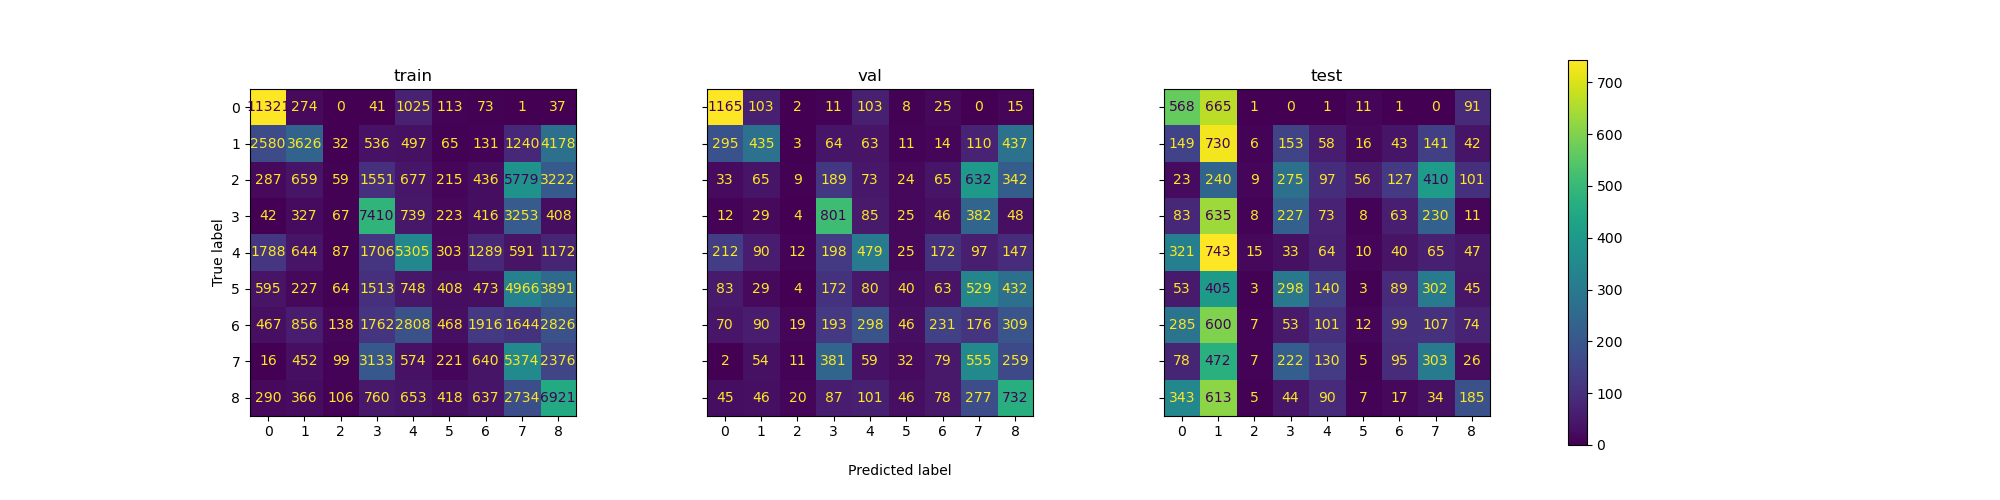
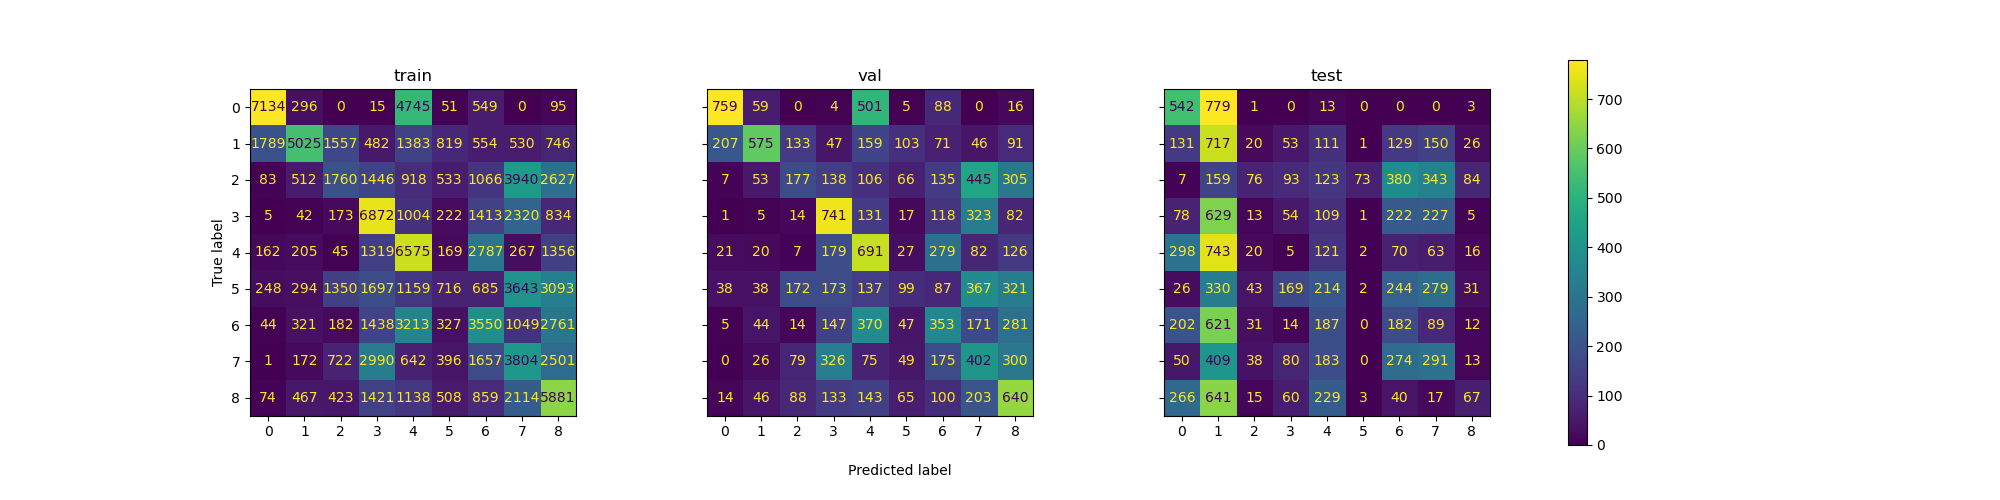
Further tune the model results. (still in progress)

diff --git a/utils.py b/utils.py
@@ -35,6 +35,7 @@ from B.models.KMeans import KMeans as B_KMeans
 import random
 from sklearn.decomposition import PCA
 from tensorboardX import SummaryWriter
+from sklearn.utils import shuffle
 
 
 def load_data(task, path, method, batch_size=None):
@@ -82,6 +83,11 @@ def load_data(task, path, method, batch_size=None):
             # sample_index_test = random.sample([i for i in range(Xtest.shape[0])]) 
             # Xtest = Xtest[sample_index_test,:]
             # ytest = np.array(ytest)[sample_index_test].tolist()
+
+            # try whether shuffle can improve accuracy
+            Xtrain, ytrain = shuffle(Xtrain,ytrain,random_state=42)
+            Xval, yval = shuffle(Xval, yval,random_state=42)
+            Xtest, ytest= shuffle(Xtest, ytest,random_state=42)
 
             # too much features, use PCA to reduce dimensionality
             pca = PCA(n_components=64)
@@ -216,7 +222,8 @@ def visual4tree(task, method, model):
     :param title: attributes used for splitting tree nodes
     """
     plt.figure(figsize=(100, 15))
-    class_names = ["pneumonia","non-pneumonia"] if task == "A" else []
+    class_names = ["pneumonia","non-pneumonia"] if task == "A" else ["ADI","BACK","DEB","LYM",\
+                        "MUC","MUS","NORM","STR","TUM"]
     tree.plot_tree(model, class_names=class_names, filled=True,
                        rounded=True,
                        fontsize=5)

diff --git a/B/models/baselines.py b/B/models/baselines.py
@@ -19,7 +19,7 @@ class Baselines:
 
         self.method = method
         if method == "LR":  
-            self.model = LogisticRegression(multi_class="ovr")  # 效果更好
+            self.model = LogisticRegression(multi_class="ovr",C=0.001,solver="liblinear")  # 效果更好
             # self.model = OneVsRestClassifier(LogisticRegression())
         elif method == "KNN":  
             self.model = KNeighborsClassifier()
@@ -44,9 +44,9 @@ class Baselines:
         if gridSearch:  
             print(f"Start tuning(cross-validation) for {self.method}......")
             if self.method == "KNN":
-                params = [{"n_neighbors": [i for i in range(5,30,2)]}]
+                params = [{"n_neighbors": [i for i in range(1,12,1)]}]
             if self.method == "DT":
-                params = [{"max_leaf_nodes": [2, 5, 10, 15, 20]}]
+                params = [{"max_leaf_nodes": [i for i in range(25,60,5)]}]
             if self.method == "RF":
                 params = [{"n_estimators": [100, 120, 140, 160], "max_depth": [4, 6, 8, 10]}]
             if self.method == "ABC":

diff --git a/main.py b/main.py
@@ -34,7 +34,7 @@ warnings.filterwarnings("ignore")
 # # print(f"Test data length: {len(data['test_images'])}, label 0: {np.count_nonzero(data['test_labels'].flatten() == 0)}, label 1: {np.count_nonzero(data['test_labels'].flatten() == 1)}")
 # # Generally the ratio of train:val:test should be 3:1:1, here first use the dataset and no need for train test split
 
-# os.environ['CUDA_VISIBLE_DEVICES']='0'
+os.environ['CUDA_VISIBLE_DEVICES']='0'
 # export CUDA_VISIBLE_DEVICES=1
 # 8.9.6, 12.0.1
 if tf.config.list_physical_devices('GPU'):
